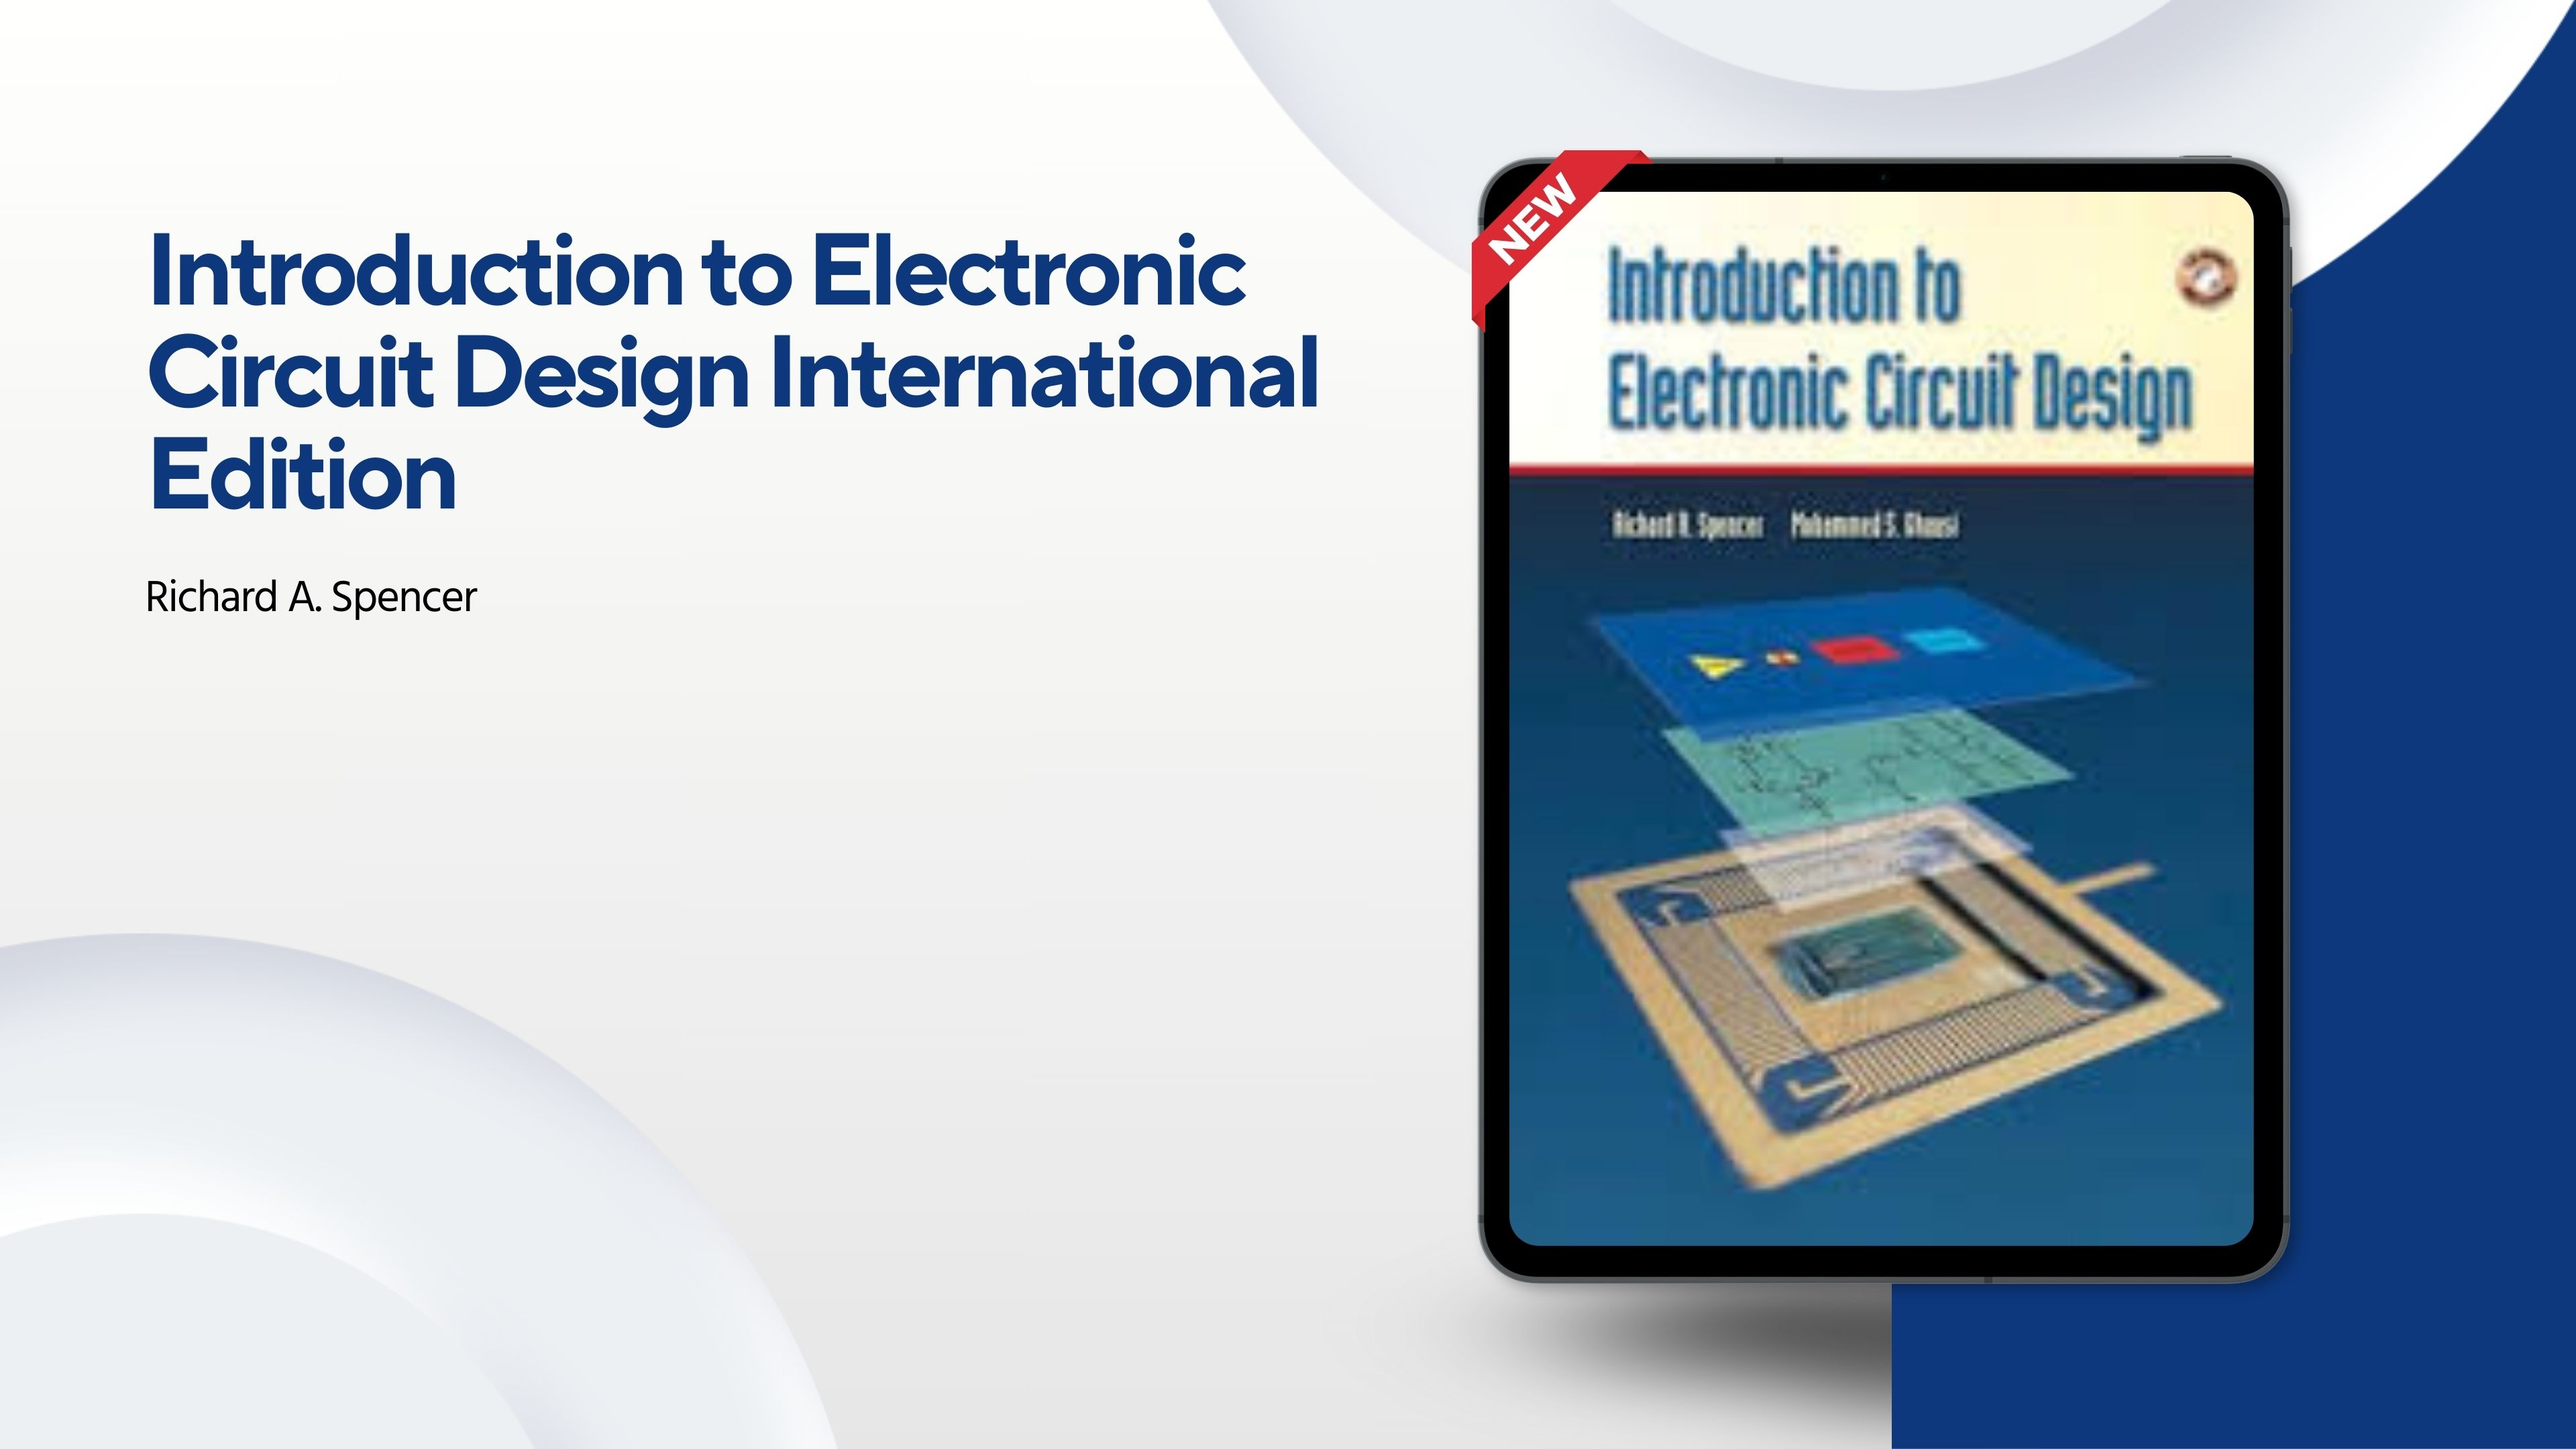
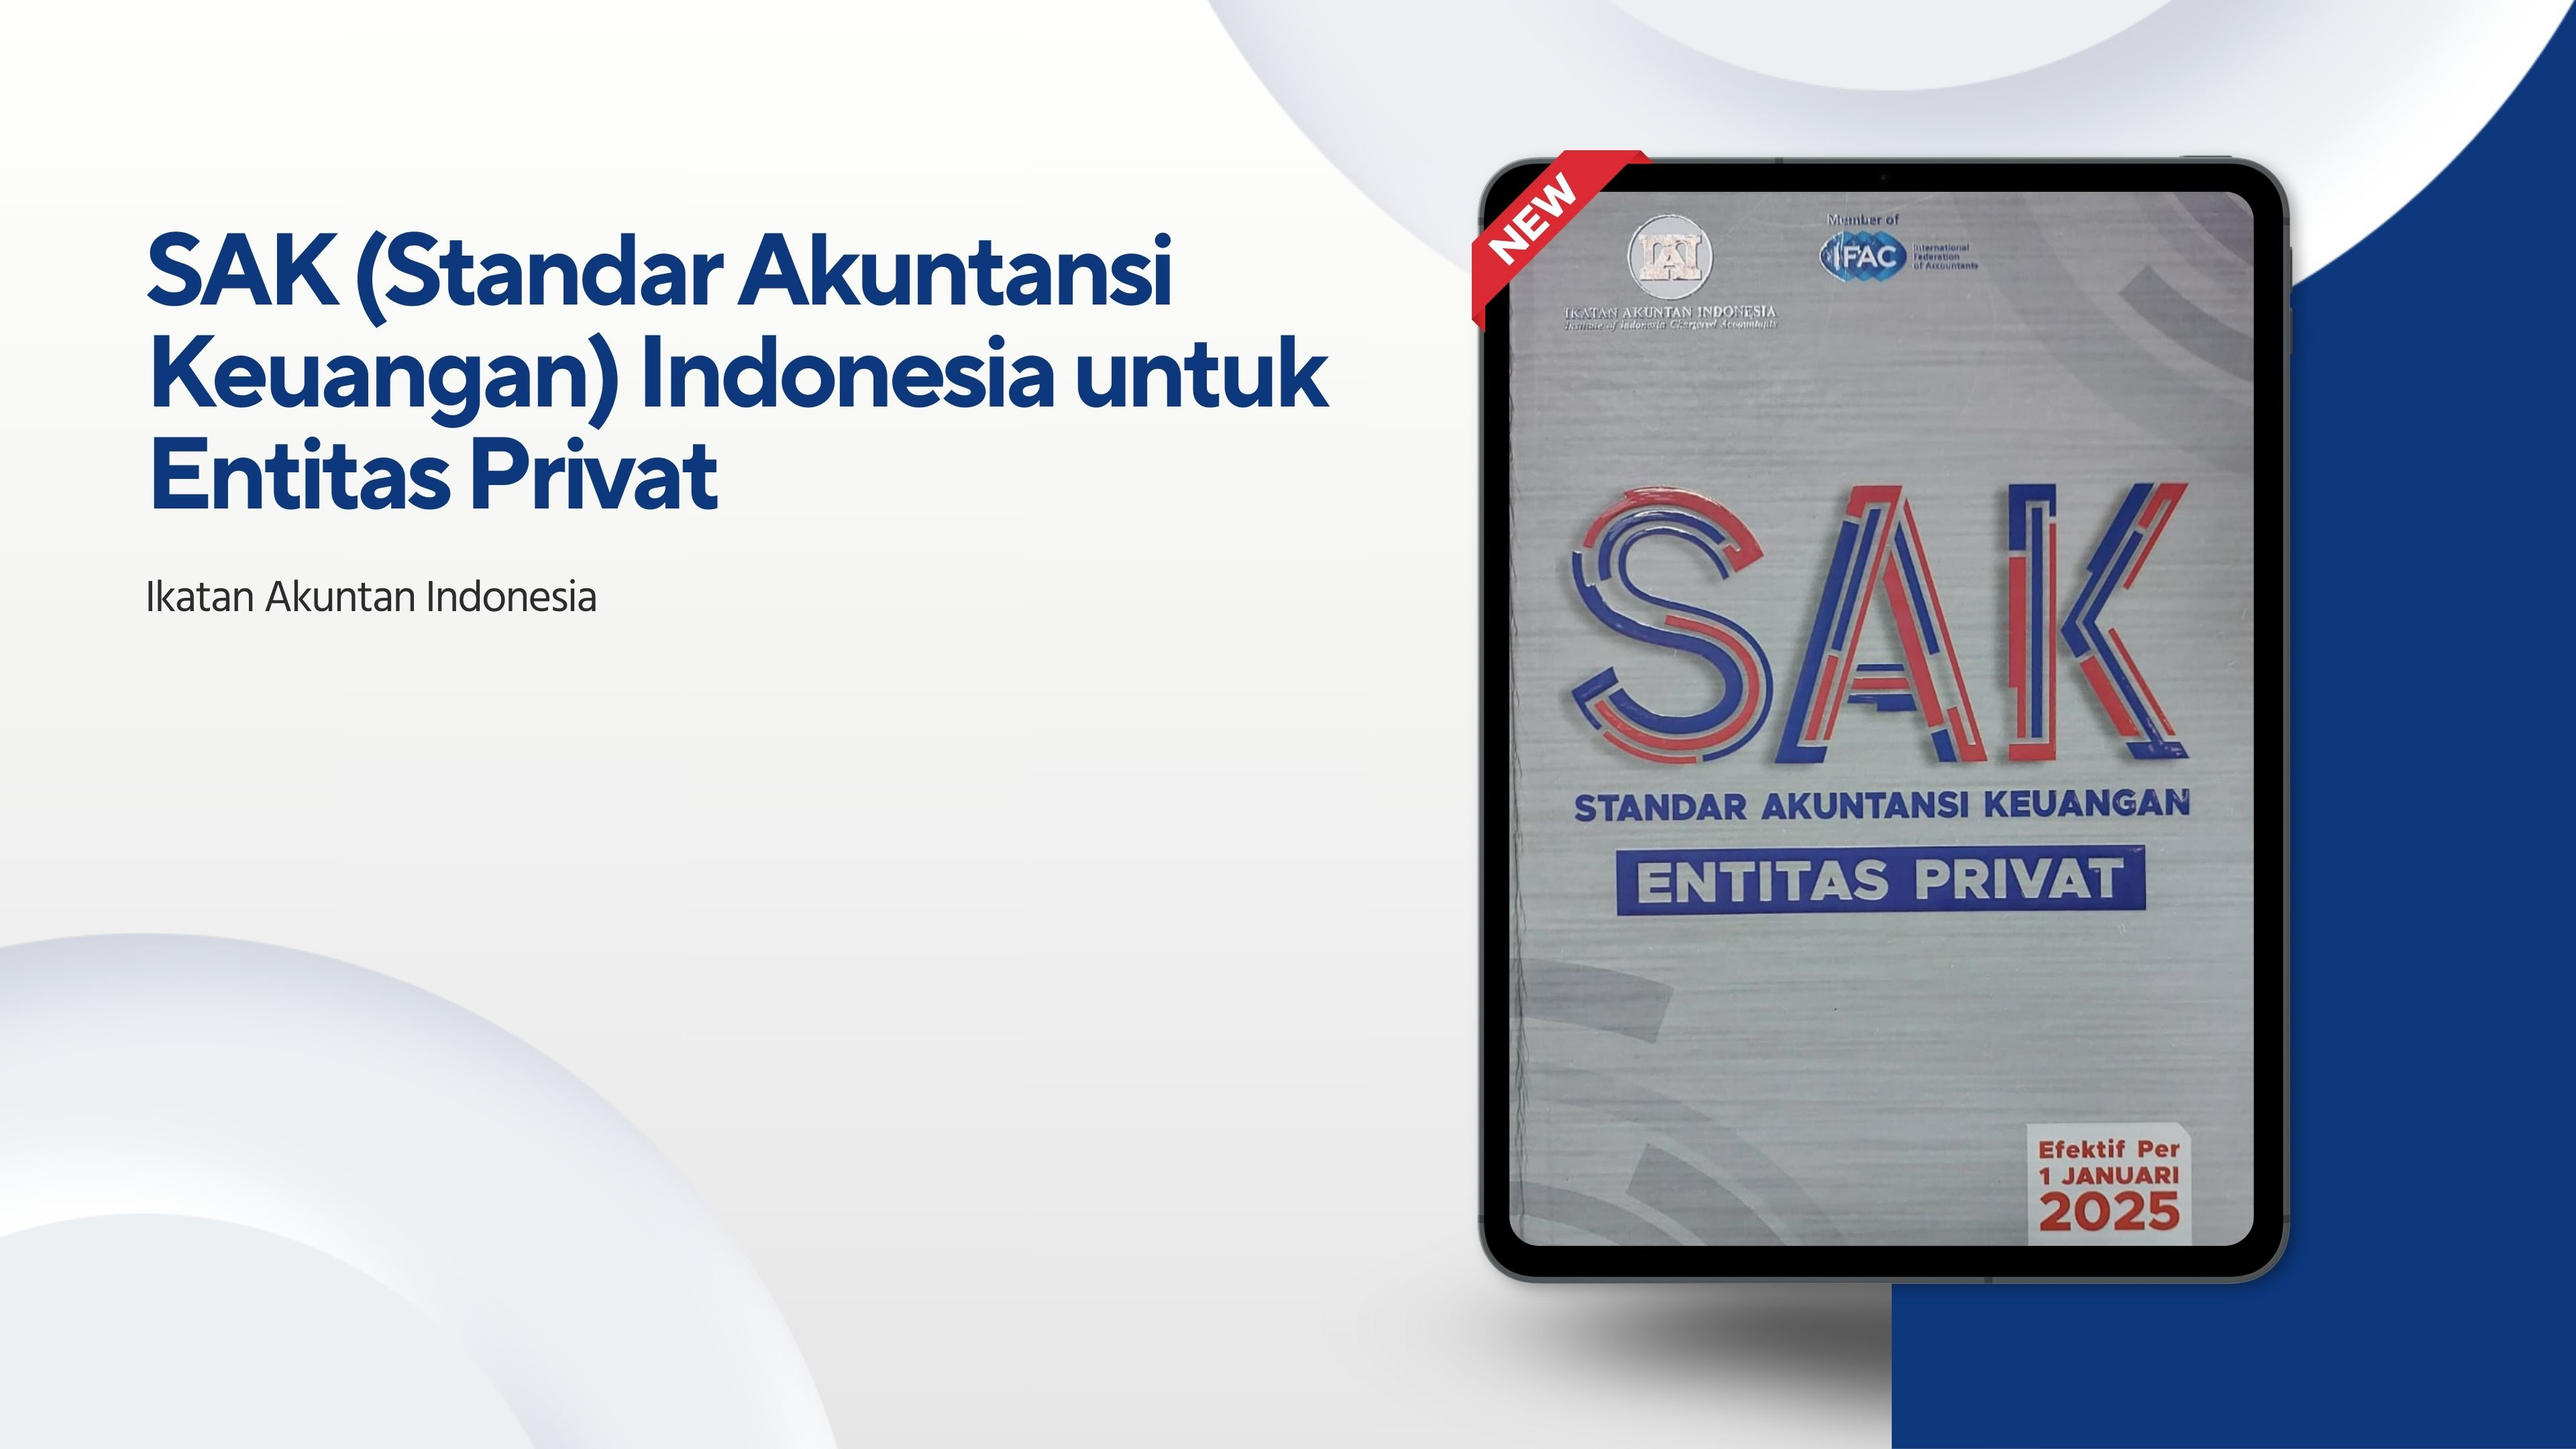
Update

Changed region(s): [[0.5625, 0.1241, 0.875, 0.8685], [0.0625, 0.1551, 0.5312, 0.3722], [0.0625, 0.4032, 0.25, 0.4343]]

diff --git a/index.html b/index.html
@@ -318,7 +318,7 @@
             const linkMap = {
                 1: "https://opac.president.ac.id/index.php?p=show_detail&id=23915&keywords=Managerial+Accounting",
                 2: "https://opac.president.ac.id/index.php?p=show_detail&id=23895&keywords=akuntansi+syariah",
-                3: "https://opac.president.ac.id/index.php?p=show_detail&id=23885&keywords=Introduction+to+Electronic+Circuit+Design+International+Edition",
+                3: "https://opac.president.ac.id/index.php?p=show_detail&id=23900&keywords=SAK+STANDAR+AKUNTANSI+KEUANGAN+INDONESIA+untuk+ENTITAS+PRIVAT",
                 4: "https://opac.president.ac.id/index.php?p=show_detail&id=23913&keywords=Consumer+Behavior",
                 5: "https://opac.president.ac.id/index.php?p=show_detail&id=23906&keywords=Kode+Etik+Akuntan+Indonesia+2024",
                 6: "https://opac.president.ac.id/index.php?p=show_detail&id=23905&keywords=SAK+(Standar+Akuntansi+Keuangan)+Indonesia+untuk+Entitas+Mikro,+Kecil,+dan+Menengah",
